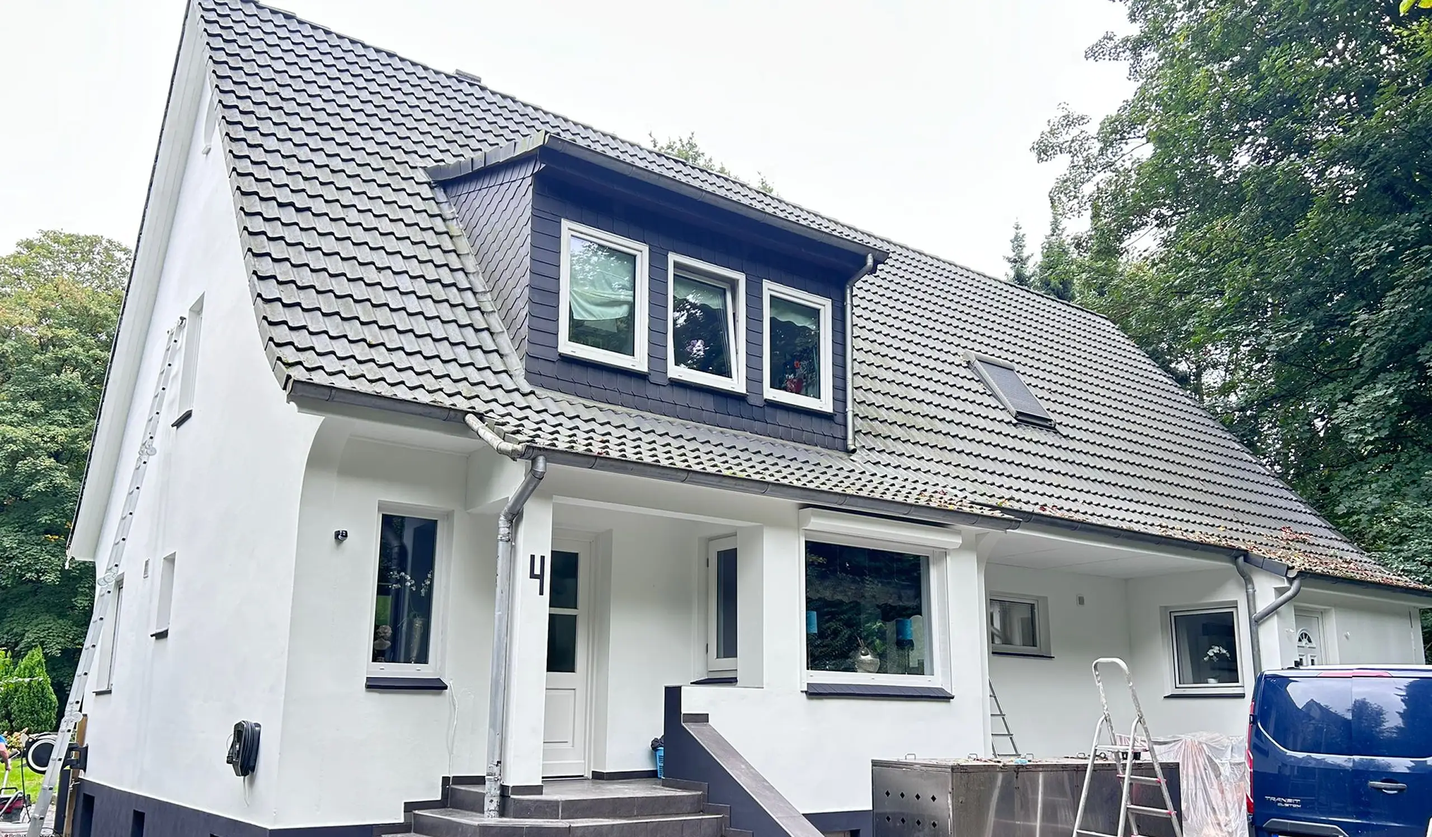
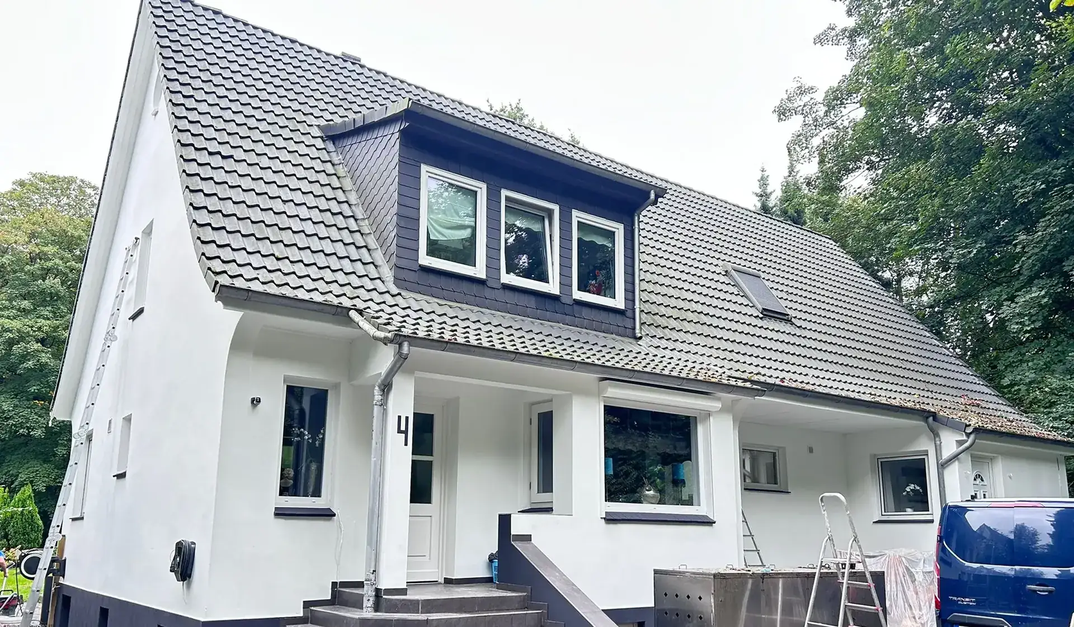
Performance: defer JS, preload hero, recompress hero-bg.webp
- Add defer attribute to main.js, cookie-consent.js, and GLightbox to unblock HTML parsing
- Preload hero-bg.webp with fetchpriority=high on all 6 hero pages (LCP improvement)
- Recompress hero image: 2560x1496/448KB → 1920x1122/295KB (~34% smaller)

diff --git a/index.html b/index.html
@@ -22,6 +22,8 @@
   <meta name="twitter:description" content="Professioneller Innen- und Außenausbau in Berlin und Mecklenburg-Vorpommern. Trockenbau, Boden, Fliesen, Maler, Fassaden und Komplettsanierung – alles aus einer Hand.">
   <meta name="twitter:image" content="https://akkermann-stroy.de/assets/images/hero-bg.webp">
 
+  <link rel="preload" as="image" href="assets/images/hero-bg.webp" fetchpriority="high">
+
   <!-- Fonts -->
   <link rel="preconnect" href="https://fonts.googleapis.com">
   <link rel="preconnect" href="https://fonts.gstatic.com" crossorigin>
@@ -1416,7 +1418,7 @@
   </div>
 
   <!-- GLightbox -->
-  <script src="https://cdn.jsdelivr.net/npm/glightbox@3.3.0/dist/js/glightbox.min.js"></script>
+  <script src="https://cdn.jsdelivr.net/npm/glightbox@3.3.0/dist/js/glightbox.min.js" defer></script>
   
   <!-- Form success popup -->
   <div class="form-success-overlay" id="form-success-overlay" aria-hidden="true">
@@ -1436,7 +1438,7 @@
     </div>
   </div>
 
-  <script src="js/main.js"></script>
-  <script src="js/cookie-consent.js"></script>
+  <script src="js/main.js" defer></script>
+  <script src="js/cookie-consent.js" defer></script>
 </body>
 </html>

diff --git a/neubrandenburg.html b/neubrandenburg.html
@@ -22,6 +22,8 @@
   <meta name="twitter:description" content="Professioneller Innen- und Außenausbau in Neubrandenburg. Trockenbau, Boden, Fliesen und Komplettsanierung – Ihr lokaler Handwerker in Neubrandenburg.">
   <meta name="twitter:image" content="https://akkermann-stroy.de/assets/images/hero-bg.webp">
 
+  <link rel="preload" as="image" href="assets/images/hero-bg.webp" fetchpriority="high">
+
   <!-- Fonts -->
   <link rel="preconnect" href="https://fonts.googleapis.com">
   <link rel="preconnect" href="https://fonts.gstatic.com" crossorigin>
@@ -1416,7 +1418,7 @@
   </div>
 
   <!-- GLightbox -->
-  <script src="https://cdn.jsdelivr.net/npm/glightbox@3.3.0/dist/js/glightbox.min.js"></script>
+  <script src="https://cdn.jsdelivr.net/npm/glightbox@3.3.0/dist/js/glightbox.min.js" defer></script>
   
   <!-- Form success popup -->
   <div class="form-success-overlay" id="form-success-overlay" aria-hidden="true">
@@ -1436,7 +1438,7 @@
     </div>
   </div>
 
-  <script src="js/main.js"></script>
-  <script src="js/cookie-consent.js"></script>
+  <script src="js/main.js" defer></script>
+  <script src="js/cookie-consent.js" defer></script>
 </body>
 </html>

diff --git a/stralsund.html b/stralsund.html
@@ -22,6 +22,8 @@
   <meta name="twitter:description" content="Professioneller Innen- und Außenausbau in Stralsund. Trockenbau, Boden, Fliesen und Komplettsanierung – Ihr lokaler Handwerker in Stralsund.">
   <meta name="twitter:image" content="https://akkermann-stroy.de/assets/images/hero-bg.webp">
 
+  <link rel="preload" as="image" href="assets/images/hero-bg.webp" fetchpriority="high">
+
   <!-- Fonts -->
   <link rel="preconnect" href="https://fonts.googleapis.com">
   <link rel="preconnect" href="https://fonts.gstatic.com" crossorigin>
@@ -1416,7 +1418,7 @@
   </div>
 
   <!-- GLightbox -->
-  <script src="https://cdn.jsdelivr.net/npm/glightbox@3.3.0/dist/js/glightbox.min.js"></script>
+  <script src="https://cdn.jsdelivr.net/npm/glightbox@3.3.0/dist/js/glightbox.min.js" defer></script>
   
   <!-- Form success popup -->
   <div class="form-success-overlay" id="form-success-overlay" aria-hidden="true">
@@ -1436,7 +1438,7 @@
     </div>
   </div>
 
-  <script src="js/main.js"></script>
-  <script src="js/cookie-consent.js"></script>
+  <script src="js/main.js" defer></script>
+  <script src="js/cookie-consent.js" defer></script>
 </body>
 </html>

diff --git a/schwerin.html b/schwerin.html
@@ -22,6 +22,8 @@
   <meta name="twitter:description" content="Professioneller Innen- und Außenausbau in Schwerin. Trockenbau, Boden, Fliesen und Komplettsanierung – Ihr lokaler Handwerker in Schwerin.">
   <meta name="twitter:image" content="https://akkermann-stroy.de/assets/images/hero-bg.webp">
 
+  <link rel="preload" as="image" href="assets/images/hero-bg.webp" fetchpriority="high">
+
   <!-- Fonts -->
   <link rel="preconnect" href="https://fonts.googleapis.com">
   <link rel="preconnect" href="https://fonts.gstatic.com" crossorigin>
@@ -1416,7 +1418,7 @@
   </div>
 
   <!-- GLightbox -->
-  <script src="https://cdn.jsdelivr.net/npm/glightbox@3.3.0/dist/js/glightbox.min.js"></script>
+  <script src="https://cdn.jsdelivr.net/npm/glightbox@3.3.0/dist/js/glightbox.min.js" defer></script>
   
   <!-- Form success popup -->
   <div class="form-success-overlay" id="form-success-overlay" aria-hidden="true">
@@ -1436,7 +1438,7 @@
     </div>
   </div>
 
-  <script src="js/main.js"></script>
-  <script src="js/cookie-consent.js"></script>
+  <script src="js/main.js" defer></script>
+  <script src="js/cookie-consent.js" defer></script>
 </body>
 </html>

diff --git a/rostock.html b/rostock.html
@@ -22,6 +22,8 @@
   <meta name="twitter:description" content="Professioneller Innen- und Außenausbau in Rostock. Trockenbau, Boden, Fliesen und Komplettsanierung – Ihr lokaler Handwerker in Rostock.">
   <meta name="twitter:image" content="https://akkermann-stroy.de/assets/images/hero-bg.webp">
 
+  <link rel="preload" as="image" href="assets/images/hero-bg.webp" fetchpriority="high">
+
   <!-- Fonts -->
   <link rel="preconnect" href="https://fonts.googleapis.com">
   <link rel="preconnect" href="https://fonts.gstatic.com" crossorigin>
@@ -1416,7 +1418,7 @@
   </div>
 
   <!-- GLightbox -->
-  <script src="https://cdn.jsdelivr.net/npm/glightbox@3.3.0/dist/js/glightbox.min.js"></script>
+  <script src="https://cdn.jsdelivr.net/npm/glightbox@3.3.0/dist/js/glightbox.min.js" defer></script>
   
   <!-- Form success popup -->
   <div class="form-success-overlay" id="form-success-overlay" aria-hidden="true">
@@ -1436,7 +1438,7 @@
     </div>
   </div>
 
-  <script src="js/main.js"></script>
-  <script src="js/cookie-consent.js"></script>
+  <script src="js/main.js" defer></script>
+  <script src="js/cookie-consent.js" defer></script>
 </body>
 </html>

diff --git a/berlin.html b/berlin.html
@@ -22,6 +22,8 @@
   <meta name="twitter:description" content="Professioneller Innen- und Außenausbau in Berlin. Trockenbau, Boden, Fliesen und Komplettsanierung – Ihr lokaler Handwerker in Berlin.">
   <meta name="twitter:image" content="https://akkermann-stroy.de/assets/images/hero-bg.webp">
 
+  <link rel="preload" as="image" href="assets/images/hero-bg.webp" fetchpriority="high">
+
   <!-- Fonts -->
   <link rel="preconnect" href="https://fonts.googleapis.com">
   <link rel="preconnect" href="https://fonts.gstatic.com" crossorigin>
@@ -1416,7 +1418,7 @@
   </div>
 
   <!-- GLightbox -->
-  <script src="https://cdn.jsdelivr.net/npm/glightbox@3.3.0/dist/js/glightbox.min.js"></script>
+  <script src="https://cdn.jsdelivr.net/npm/glightbox@3.3.0/dist/js/glightbox.min.js" defer></script>
   
   <!-- Form success popup -->
   <div class="form-success-overlay" id="form-success-overlay" aria-hidden="true">
@@ -1436,7 +1438,7 @@
     </div>
   </div>
 
-  <script src="js/main.js"></script>
-  <script src="js/cookie-consent.js"></script>
+  <script src="js/main.js" defer></script>
+  <script src="js/cookie-consent.js" defer></script>
 </body>
 </html>

diff --git a/datenschutzerklaerung.html b/datenschutzerklaerung.html
@@ -413,8 +413,8 @@
     </div>
   </footer>
 
-  <script src="js/main.js"></script>
-  <script src="js/cookie-consent.js"></script>
+  <script src="js/main.js" defer></script>
+  <script src="js/cookie-consent.js" defer></script>
   <script>
     document.getElementById('legal-open-cc')?.addEventListener('click', function () {
       if (window.akkCookieConsent && typeof window.akkCookieConsent.openSettings === 'function') {

diff --git a/impressum.html b/impressum.html
@@ -327,7 +327,7 @@
     </div>
   </footer>
 
-  <script src="js/main.js"></script>
-  <script src="js/cookie-consent.js"></script>
+  <script src="js/main.js" defer></script>
+  <script src="js/cookie-consent.js" defer></script>
 </body>
 </html>

diff --git a/badrenovierung.html b/badrenovierung.html
@@ -482,7 +482,7 @@
     </div>
   </div>
 
-  <script src="js/main.js"></script>
-  <script src="js/cookie-consent.js"></script>
+  <script src="js/main.js" defer></script>
+  <script src="js/cookie-consent.js" defer></script>
 </body>
 </html>

diff --git a/bodenarbeiten.html b/bodenarbeiten.html
@@ -399,7 +399,7 @@
     </div>
   </div>
 
-  <script src="js/main.js"></script>
-  <script src="js/cookie-consent.js"></script>
+  <script src="js/main.js" defer></script>
+  <script src="js/cookie-consent.js" defer></script>
 </body>
 </html>

diff --git a/fenster-tueren.html b/fenster-tueren.html
@@ -395,7 +395,7 @@
     </div>
   </div>
 
-  <script src="js/main.js"></script>
-  <script src="js/cookie-consent.js"></script>
+  <script src="js/main.js" defer></script>
+  <script src="js/cookie-consent.js" defer></script>
 </body>
 </html>

diff --git a/innenausbau.html b/innenausbau.html
@@ -399,7 +399,7 @@
     </div>
   </div>
 
-  <script src="js/main.js"></script>
-  <script src="js/cookie-consent.js"></script>
+  <script src="js/main.js" defer></script>
+  <script src="js/cookie-consent.js" defer></script>
 </body>
 </html>
